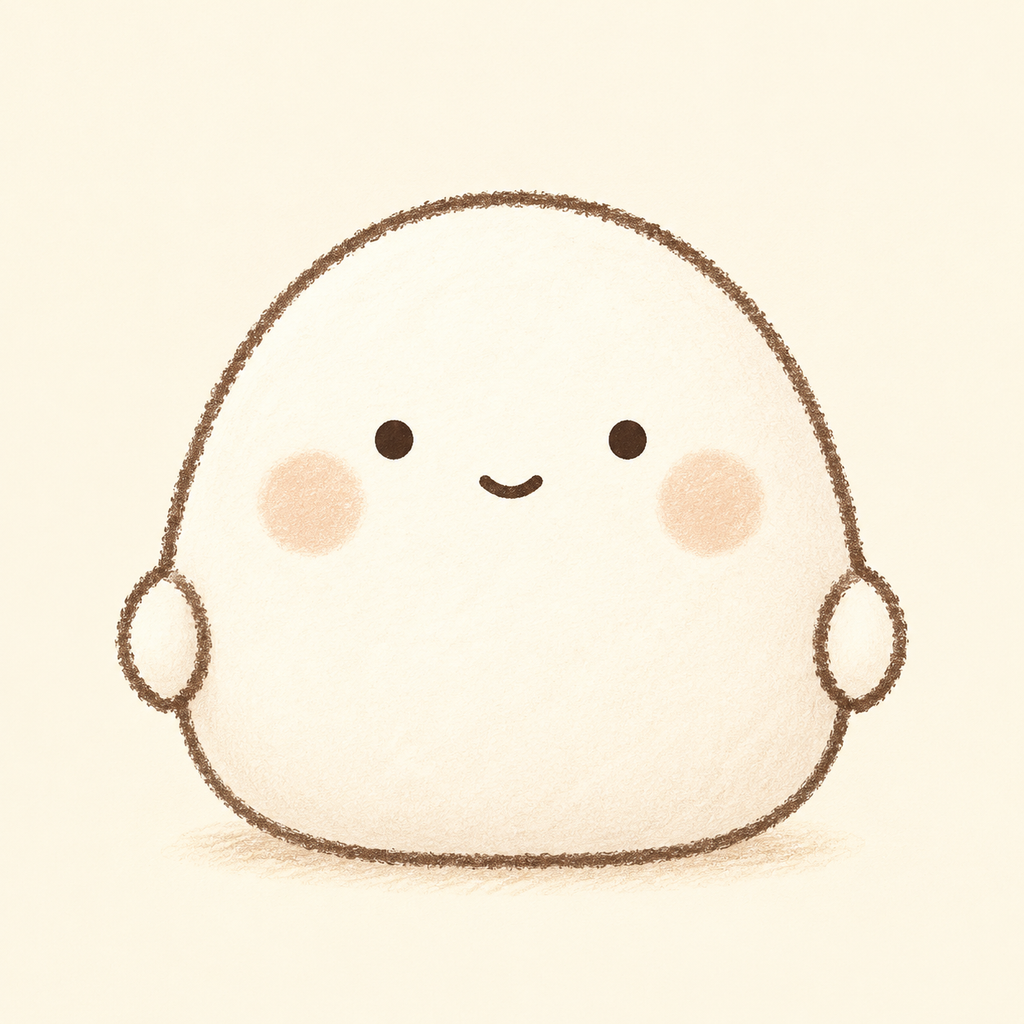
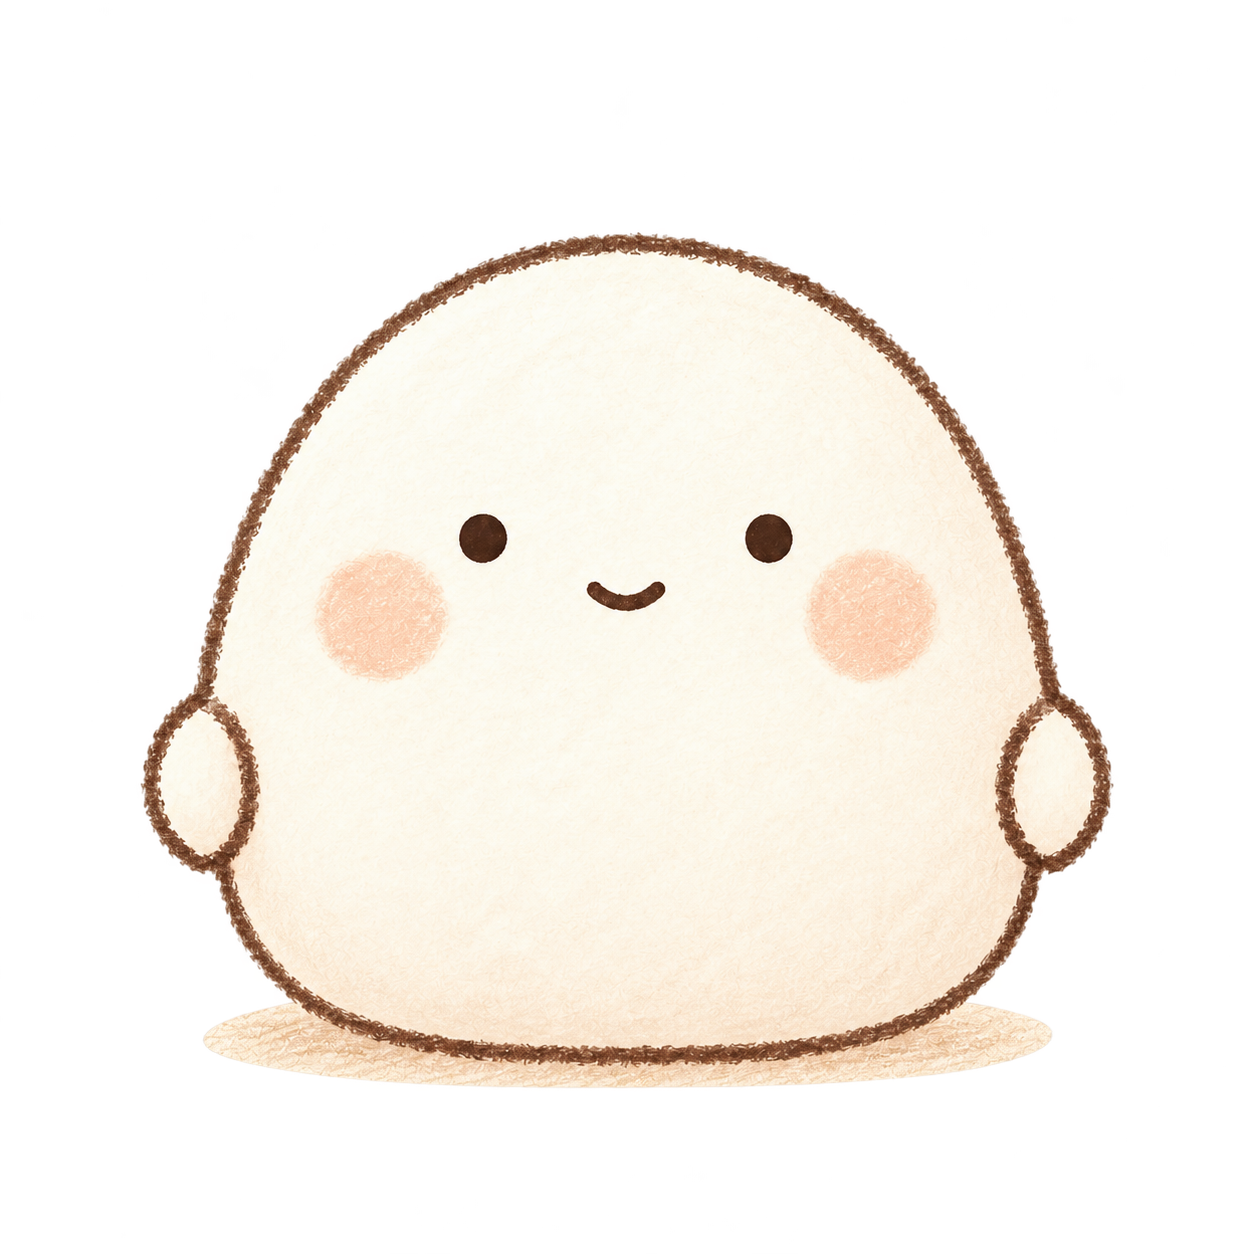
[Feature] 스플래시 전체 화면 이미지 적용 및 감정 이미지 교체

diff --git a/frontend/src/components/ui/Splash.tsx b/frontend/src/components/ui/Splash.tsx
@@ -1,6 +1,5 @@
-import { Image, Text, View } from 'react-native';
-import { useSafeAreaInsets } from 'react-native-safe-area-context';
-import { colors, fonts } from '@/theme/tokens';
+import { Image, View } from 'react-native';
+import { colors } from '@/theme/tokens';
 
 export const splashArtwork = require('../../../assets/figma/splash-diary.jpg');
 // Keeps the start screen on long enough to be seen; jest.setup sets it to 0.
@@ -8,7 +7,6 @@ export const SPLASH_MIN_MS = 1200;
 
 // Figma 06 · S-C 그림일기.
 export function Splash() {
-  const insets = useSafeAreaInsets();
   return (
     <View
       accessibilityLabel="오늘의 모찌를 여는 중"
@@ -16,49 +14,14 @@ export function Splash() {
       style={{
         flex: 1,
         backgroundColor: colors.bg,
-        paddingTop: insets.top,
       }}
     >
-      <View
-        style={{
-          width: '100%',
-          aspectRatio: 390 / 555,
-          maxHeight: '68%',
-          overflow: 'hidden',
-        }}
-      >
-        <Image
-          source={splashArtwork}
-          accessible={false}
-          resizeMode="cover"
-          style={{ width: '100%', height: '100%' }}
-        />
-      </View>
-      <View style={{ paddingTop: 47, paddingHorizontal: 20, gap: 5 }}>
-        <Text
-          accessibilityRole="header"
-          style={{
-            fontFamily: fonts.pen,
-            fontSize: 48,
-            lineHeight: 60,
-            color: colors.primary,
-            textAlign: 'center',
-          }}
-        >
-          오늘의 모찌
-        </Text>
-        <Text
-          style={{
-            fontFamily: fonts.regular,
-            fontSize: 13,
-            lineHeight: 19,
-            color: colors.muted,
-            textAlign: 'center',
-          }}
-        >
-          하루의 장면을 오래도록
-        </Text>
-      </View>
+      <Image
+        source={splashArtwork}
+        accessible={false}
+        resizeMode="cover"
+        style={{ flex: 1, width: '100%' }}
+      />
     </View>
   );
 }

diff --git a/frontend/__tests__/gacha.test.tsx b/frontend/__tests__/gacha.test.tsx
@@ -22,7 +22,7 @@ import ExchangeConfirm from '@/app/gacha/exchange-confirm';
 import Exchanged from '@/app/gacha/exchanged';
 import Failed from '@/app/gacha/failed';
 import { EmotionImage } from '@/components/emotion/Emotion';
-import { Splash } from '@/components/ui/Splash';
+import { Splash, splashArtwork } from '@/components/ui/Splash';
 import { emotions } from '@/constants/emotions';
 import { tierOrder, tiers } from '@/constants/gacha';
 import { mockGachaService, rollMochi } from '@/mocks/services';
@@ -246,13 +246,20 @@ test('the tab bar switches between the four tabs', async () => {
   }
 });
 
-test('the splash shows the S-C diary artwork with its title', async () => {
+test('the splash shows only the full-screen diary artwork', async () => {
   await render(<Splash />);
-  expect(screen.getByRole('header', { name: '오늘의 모찌' })).toHaveStyle({
-    fontFamily: 'NanumPenScript_400Regular',
-    fontSize: 48,
+  const splash = screen.getByLabelText('오늘의 모찌를 여는 중');
+  expect(splash.children).toHaveLength(1);
+  expect(splash.children[0]).toMatchObject({
+    type: 'Image',
+    props: { source: splashArtwork, resizeMode: 'cover' },
   });
-  expect(screen.getByText('하루의 장면을 오래도록')).toBeOnTheScreen();
+  expect(screen.queryByText('오늘의 모찌')).toBeNull();
+  expect(screen.queryByText('하루의 장면을 오래도록')).toBeNull();
+  expect(splash).toHaveStyle({
+    flex: 1,
+    backgroundColor: '#FAF7F2',
+  });
 });
 
 test('small emotion faces use the transparent Figma face', async () => {

diff --git a/frontend/src/constants/emotions.ts b/frontend/src/constants/emotions.ts
@@ -24,31 +24,31 @@ export const emotions: Record<
     label: '행복',
     color: colors.happy,
     source: require('../../assets/happy.png'),
-    face: require('../../assets/figma/face-happy.png'),
+    face: require('../../assets/happy.png'),
   },
   calm: {
     label: '평온',
     color: colors.calm,
     source: require('../../assets/calm.png'),
-    face: require('../../assets/figma/face-calm.png'),
+    face: require('../../assets/calm.png'),
   },
   neutral: {
     label: '보통',
     color: colors.neutral,
     source: require('../../assets/neutral.png'),
-    face: require('../../assets/figma/face-neutral.png'),
+    face: require('../../assets/neutral.png'),
   },
   sad: {
     label: '우울',
     color: colors.sad,
     source: require('../../assets/sad.png'),
-    face: require('../../assets/figma/face-sad.png'),
+    face: require('../../assets/sad.png'),
   },
   angry: {
     label: '화남',
     color: colors.angry,
     source: require('../../assets/angry.png'),
-    face: require('../../assets/figma/face-angry.png'),
+    face: require('../../assets/angry.png'),
   },
 };
 export const activities = [

diff --git a/frontend/src/app/_layout.tsx b/frontend/src/app/_layout.tsx
@@ -41,7 +41,7 @@ export default function RootLayout() {
   return (
     <QueryClientProvider client={queryClient}>
       <SafeAreaProvider>
-        <StatusBar style="dark" />
+        <StatusBar style="dark" hidden={!splashDone} />
         {!fontsSettled ? (
           <View style={{ flex: 1, backgroundColor: colors.bg }} />
         ) : !splashDone ? (
